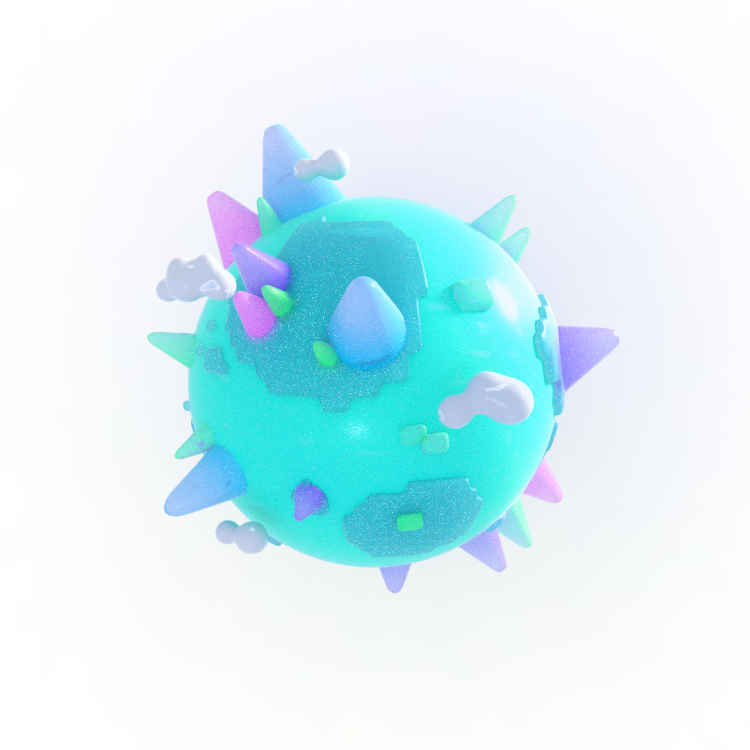
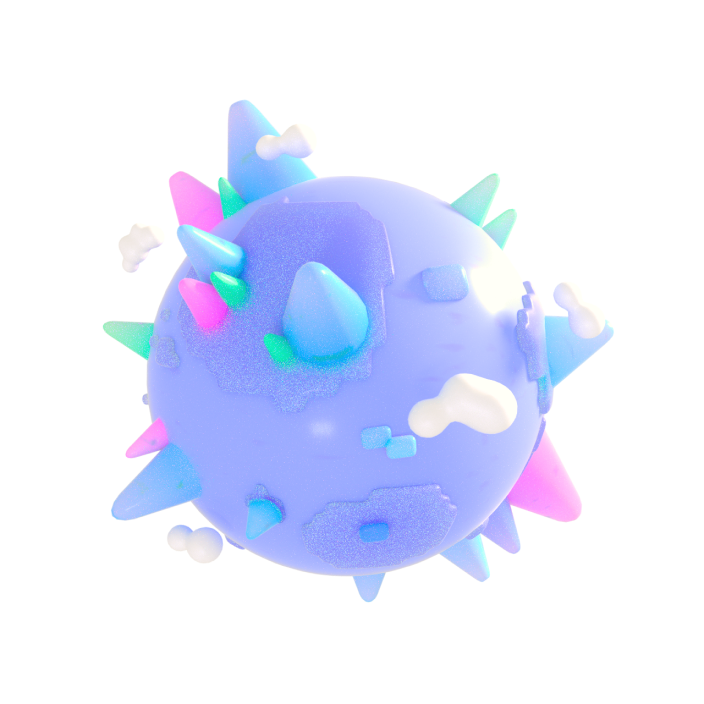
Fix/complete step design (#304)
* Fix: design 수정

* Fix: 행성 이미지 수정

* Fix: 행성 만들기 후 보여주는 행성 사진 교체

Changed region(s): [[0.125, 0.125, 0.875, 0.875], [0.1562, 0.3125, 0.1875, 0.3438]]

diff --git a/src/modules/IdCardCreation/Step/CompleteStep.client.tsx b/src/modules/IdCardCreation/Step/CompleteStep.client.tsx
@@ -30,10 +30,10 @@ export const CompleteStep = ({ idCardId }: CompleteStepProps) => {
 
   return (
     <div className="flex min-h-[calc(100vh-50px)] flex-col px-layout-sm ">
-      <h2 className="text-h1 text-grey-900">{`짜잔!${
+      <h2 className="text-h1 text-grey-900">{`짜잔! ${
         communityDetail?.communityDetailsDto.title || ''
       } \n주민증이 발급되었어요!`}</h2>
-      <div className="mt-24pxr flex flex-1 flex-col">
+      <div className="mt-24pxr flex max-h-[650px] flex-1 flex-col justify-between">
         {idCardDetail && (
           <IdCard
             idCardId={idCardId}
@@ -44,7 +44,7 @@ export const CompleteStep = ({ idCardId }: CompleteStepProps) => {
           />
         )}
         <Link href={`/planet/${communityId}/id-card/${idCardId}`}>
-          <p className="my-52px flex w-full flex-1 items-center justify-center text-center text-b1 text-primary-500">
+          <p className="flex w-full flex-1 items-center justify-center text-center text-b1 text-primary-500">
             주민증을 눌러보세요!
           </p>
         </Link>

diff --git a/src/app/admin/planet/create/result/page.tsx b/src/app/admin/planet/create/result/page.tsx
@@ -45,7 +45,7 @@ const AdminCommunityCreateResultPage = () => {
         </p>
         <div className="relative mt-30pxr">
           <Image
-            src="/assets/images/planet-create-result-bg.png"
+            src="/assets/images/planet-with-shadow.png"
             width={375}
             height={375}
             className="object-contain"
